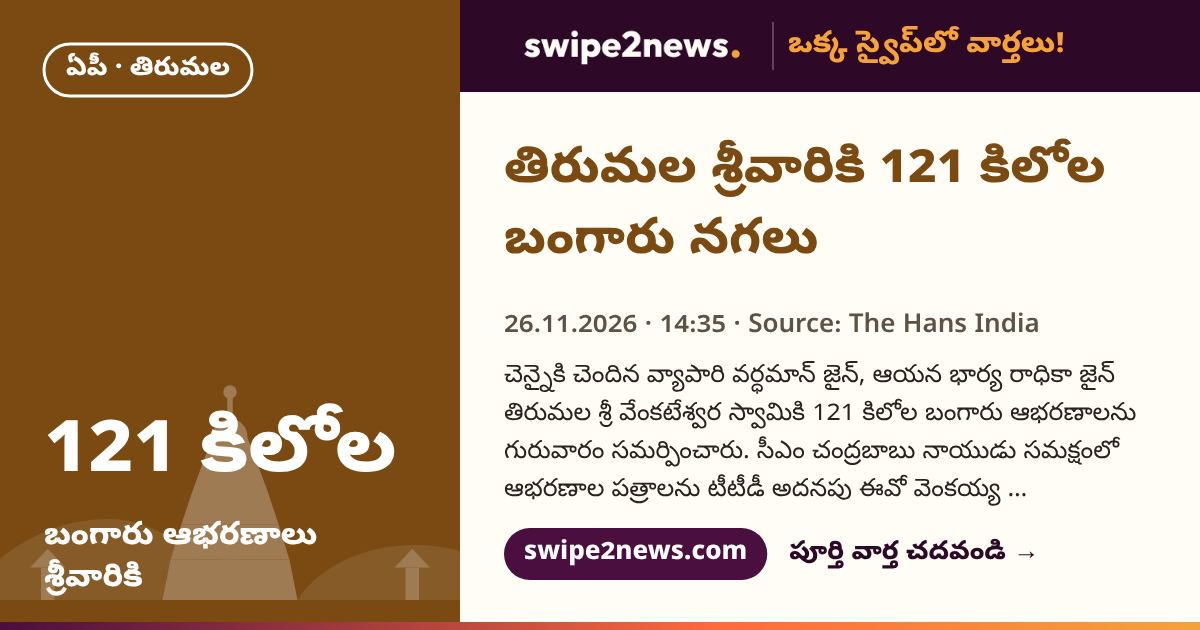
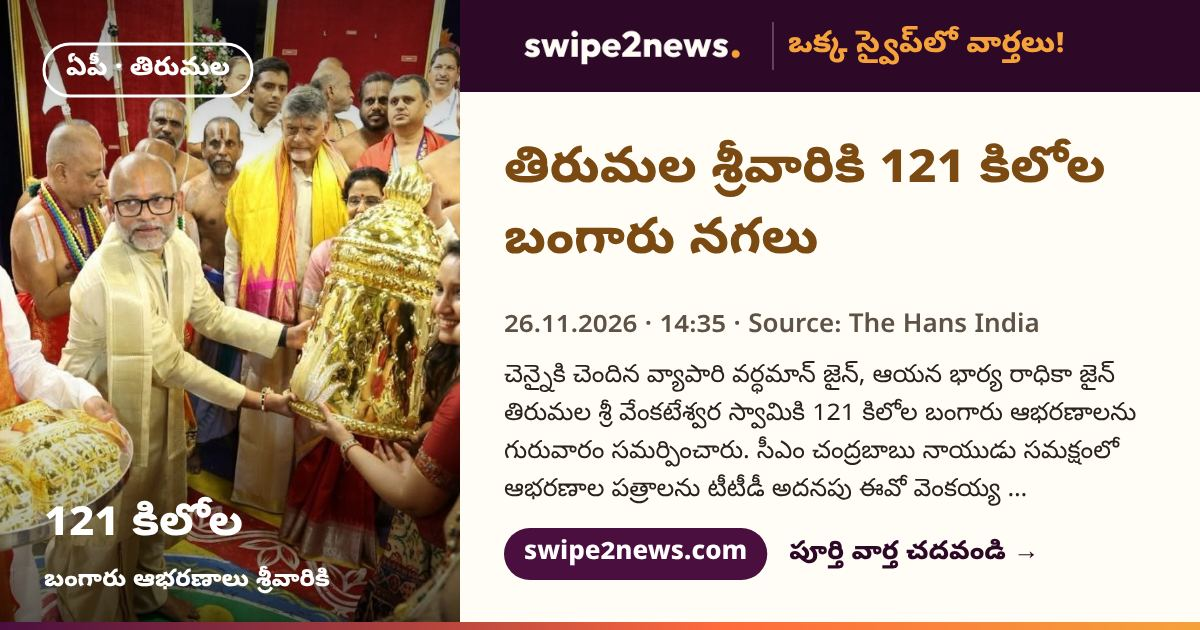
Photo gallery on cards (tap for next, dots, auto every 3 s); Tirumala 121 kg gold story with 5 photos
Claude-Session: https://claude.ai/code/session_018iQhkHU53oJfvWAwm1ZPZm

diff --git a/index.html b/index.html
@@ -1388,6 +1388,17 @@ body.np .feed .story{bottom:calc(72px + env(safe-area-inset-bottom,0px))}
 .s2n.dly .dswipe{display:flex;align-items:center;gap:6px;font:700 13px/1.3 var(--body);color:rgba(255,253,245,.85);text-align:right}.s2n.dly .dswipe b{color:#F5A23A;font-size:18px}
 .s2n.dly .dhand{display:inline-block;animation:dHand 1.8s ease-in-out infinite}@keyframes dHand{0%,30%{transform:none}60%{transform:translateX(-14px)}100%{transform:none}}
 .s2n .panel>.pcr{position:absolute;right:12px;top:12px;z-index:3;display:inline-flex;align-items:center;gap:4px;max-width:52%;white-space:nowrap;overflow:hidden;text-overflow:ellipsis;padding:4px 10px;border-radius:999px;background:rgba(20,4,17,.72);border:1px solid rgba(245,162,58,.9);color:#FFFDF5;font:600 11.5px/1.2 var(--body)}.s2n .panel>.pcr b{font-weight:800}
+
+/* photo gallery on a card: tap to see next, dots, auto-advance every 3 s (owner 26 Nov 2026, preview) */
+.s2n .panel .gal{position:absolute;inset:0;z-index:0;cursor:pointer;background:#4A0E3F}
+.s2n .panel .gal img{position:absolute;inset:0;width:100%;height:100%;object-fit:cover;object-position:50% 35%;opacity:0;transition:opacity .5s}
+.s2n .panel .gal img.on{opacity:1}
+.s2n .panel .gal .gdots{position:absolute;left:0;right:0;bottom:62px;display:flex;justify-content:center;gap:6px;z-index:2}
+.s2n .panel .gal .gdots i{width:7px;height:7px;border-radius:50%;background:rgba(255,253,245,.55);transition:all .3s}
+.s2n .panel .gal .gdots i.on{width:18px;border-radius:4px;background:#F5A23A}
+.s2n .panel.bnr .ptop,.s2n .panel.bnr .bkw{z-index:2;position:relative}
+.s2n .panel .gal::after{content:'';position:absolute;left:0;right:0;bottom:0;height:45%;background:linear-gradient(transparent,rgba(46,8,39,.92));pointer-events:none}
+.s2n .panel .gal .gcnt{position:absolute;right:12px;top:52px;z-index:2;padding:2px 9px;border-radius:12px;background:rgba(46,8,39,.75);color:#FFFDF5;font:700 12px/1.5 'Outfit',sans-serif}
 </style>
 </head>
 <body>
@@ -1402,7 +1413,7 @@ body.np .feed .story{bottom:calc(72px + env(safe-area-inset-bottom,0px))}
     <button class="icon" id="setBtn" type="button" aria-label="సెట్టింగ్స్"><svg viewBox="0 0 24 24" fill="none" stroke="currentColor" stroke-width="2" stroke-linecap="round" aria-hidden="true"><path d="M4 7h10M18 7h2M4 17h4M12 17h8"/><circle cx="16" cy="7" r="2"/><circle cx="10" cy="17" r="2"/></svg></button>
   </header>
   <nav class="tabs" id="tabs" aria-label="విభాగాలు"></nav>
-  <main class="feed" id="feed" aria-label="వార్తలు"><!--SSR--><div class="ssr" lang="en"><h1>Swipe2News – Telangana, Andhra Pradesh, India &amp; World news in short</h1><p>Know More. Scroll Less. Short, sourced news from every district of Telangana and Andhra Pradesh, plus the most important news from India and the world – in Telugu, English and Hindi. Every story names and links its original source.</p><p><a href="/en/">English news</a> · <a href="/te/">తెలుగు వార్తలు</a> · <a href="/hi/">हिन्दी खबरें</a> · <a href="/web/">Latest news website</a> · <a href="/install.html">Install the app</a> · <a href="/epaper/">E-paper</a> · <a href="/mandi/">Mandi prices</a> · <a href="/?jobs=1">Jobs</a></p><h2>Top stories</h2><ul><li><a href="/s/zux8cg?l=en">Happy Constitution Day</a> <small>Swipe2News · 26.11.2026 11:45</small></li><li><a href="/s/hea9wr?l=en">Tata Trusts to sue over chairman&#x27;s term</a> <small>Telangana Today (PTI) · 26.11.2026 11:35</small></li><li><a href="/s/fe03cc?l=en">Temple shifted for NH-716 widening</a> <small>Telangana Today (PTI) · 26.11.2026 11:35</small></li><li><a href="/s/1hbsi2c?l=en">₹1,500 crore coffee factory at Wargal</a> <small>The Pioneer · 26.11.2026 11:35</small></li><li><a href="/s/1fa4h1n?l=en">HC summons Telangana Chief Secretary</a> <small>Siasat Daily · 26.11.2026 11:35</small></li><li><a href="/s/6oidab?l=en">Sword dance at wedding: 4 arrested</a> <small>Siasat Daily · 26.11.2026 11:35</small></li><li><a href="/s/elixg9?l=en">Free registration for Indiramma tower homes</a> <small>HMTV · 26.11.2026 11:35</small></li><li><a href="/s/mw2byc?l=en">Narnoor: father accused of killing daughter</a> <small>Deccan Chronicle · 26.11.2026 11:05</small></li><li><a href="/s/lh66tl?l=en">No Telangana-AP deal on Sagar water</a> <small>Oneindia Telugu · 26.11.2026 11:05</small></li><li><a href="/s/1efhxun?l=en">Apple&#x27;s first Telangana store in Kukatpally</a> <small>Telangana Today (IANS) · 26.11.2026 10:35</small></li><li><a href="/s/c905pn?l=en">HC dismisses PIL on Vikarabad court site</a> <small>Live Law · 26.11.2026 11:05</small></li><li><a href="/s/zpjhek?l=en">Chief ministers pay tribute to 26/11 victims</a> <small>Telangana Today (IANS) · 26.11.2026 10:05</small></li><li><a href="/s/qvf117?l=en">Nagole businessman loses ₹12 lakh in trading scam</a> <small>The Siasat Daily · 26.11.2026 10:35</small></li><li><a href="/s/56i9c0?l=en">Hyderabad forum orders check of BYD car</a> <small>The Siasat Daily · 26.11.2026 10:05</small></li><li><a href="/s/1dri4ut?l=en">PILs seek halt to Kukatpally truck park sale</a> <small>The Siasat Daily · 26.11.2026 09:35</small></li><li><a href="/s/5tfcq8?l=en">Mrithika wins 100m gold at BIMSTEC meet</a> <small>Telangana Today · 26.11.2026 10:05</small></li><li><a href="/s/1h24ttz?l=en">Silpa Ravi under house arrest in Nandyal</a> <small>Deccan Chronicle · 26.11.2026 09:35</small></li><li><a href="/s/2x6f2q?l=en">Delhi Police: no nod for SKM farmers&#x27; march</a> <small>Telangana Today (IANS) · 26.11.2026 09:05</small></li><li><a href="/s/16uu4vu?l=en">Polling begins in Mangalagiri&#x27;s 62 divisions</a> <small>HMTV · 26.11.2026 09:05</small></li><li><a href="/s/hjazby?l=en">CM Chandrababu Naidu votes in Undavalli</a> <small>NTV Telugu · 26.11.2026 09:05</small></li><li><a href="/s/pmc4ju?l=en">AP first-phase panchayat polling begins</a> <small>V6 Velugu · 26.11.2026 09:05</small></li><li><a href="/s/is4qxn?l=en">HC: non-tribal land disputes go to civil courts</a> <small>V6 Velugu · 26.11.2026 09:05</small></li><li><a href="/s/fs5hr8?l=en">PM Modi greets nation on Constitution Day</a> <small>Telangana Today (IANS) · 26.11.2026 09:05</small></li><li><a href="/s/fbnzhq?l=en">Cyberabad corporation to get twin towers</a> <small>V6 Velugu · 26.11.2026 09:05</small></li></ul><p class="ssrf"><a href="/about.html">About</a> · <a href="/editorial-policy.html">Editorial policy</a> · <a href="/editorial-policy.html#corrections">Corrections</a> · <a href="/contact.html">Contact</a> · <a href="/privacy.html">Privacy</a> · <a href="/terms.html">Terms</a></p><p class="ssrw">Loading news… · వార్తలు లోడ్ అవుతున్నాయి…</p></div><!--/SSR--></main>
+  <main class="feed" id="feed" aria-label="వార్తలు"><!--SSR--><div class="ssr" lang="en"><h1>Swipe2News – Telangana, Andhra Pradesh, India &amp; World news in short</h1><p>Know More. Scroll Less. Short, sourced news from every district of Telangana and Andhra Pradesh, plus the most important news from India and the world – in Telugu, English and Hindi. Every story names and links its original source.</p><p><a href="/en/">English news</a> · <a href="/te/">తెలుగు వార్తలు</a> · <a href="/hi/">हिन्दी खबरें</a> · <a href="/web/">Latest news website</a> · <a href="/install.html">Install the app</a> · <a href="/epaper/">E-paper</a> · <a href="/mandi/">Mandi prices</a> · <a href="/?jobs=1">Jobs</a></p><h2>Top stories</h2><ul><li><a href="/s/1u5bcvk?l=en">SC notice to Centre on protest guidelines</a> <small>Telangana Today (PTI) · 26.11.2026 15:35</small></li><li><a href="/s/14d98t?l=en">Telangana guest house in Ajmer yet to start</a> <small>Telangana Today · 26.11.2026 15:35</small></li><li><a href="/s/yjzzxc?l=en">Two held in online harassment cases</a> <small>Telangana Today · 26.11.2026 15:35</small></li><li><a href="/s/1bl5w9a?l=en">Panchayats told to open own-revenue accounts</a> <small>Telangana Today · 26.11.2026 15:35</small></li><li><a href="/s/15pbmyx?l=en">False: fine for driving alone in a car</a> <small>NewsMeter · 26.11.2026 15:35</small></li><li><a href="/s/q86p0e?l=en">Four killed as lorry hits van in Anantapur</a> <small>Telangana Today · 26.11.2026 15:35</small></li><li><a href="/s/16ik3ed?l=en">Telangana exists due to Article 3: KTR</a> <small>Telangana Today · 26.11.2026 15:05</small></li><li><a href="/s/nj1x8g?l=en">Tension outside Keserapalli polling booth</a> <small>Deccan Chronicle (ANI) · 26.11.2026 15:05</small></li><li><a href="/s/1v78skq?l=en">AP pensions on November 30, December 1</a> <small>Oneindia Telugu · 26.11.2026 15:05</small></li><li><a href="/s/hp9bxj?l=en">NIPER Hyderabad convocation on Friday</a> <small>Telangana Today · 26.11.2026 15:05</small></li><li><a href="/s/152ytkk?l=en">Stones hit MLA&#x27;s vehicle in Ahobilam</a> <small>Deccan Chronicle · 26.11.2026 14:35</small></li><li><a href="/s/ijeetx?l=en">32,100 voter roll cases pending in Telangana</a> <small>The Siasat Daily · 26.11.2026 15:05</small></li><li><a href="/s/ximmx3?l=en">Wanaparthy hall warns uninvited guests</a> <small>NTV Telugu · 26.11.2026 15:05</small></li><li><a href="/s/32cm03?l=en">BRS leader attacked in Nagarkurnool</a> <small>The Siasat Daily · 26.11.2026 15:05</small></li><li><a href="/s/66y57w?l=en">BRS objects: no Ambedkar photo in govt ads</a> <small>Telangana Today · 26.11.2026 14:05</small></li><li><a href="/s/1y9et4d?l=en">SC: show total sugar, fat on food packs</a> <small>Deccan Chronicle · 26.11.2026 14:05</small></li><li><a href="/s/rcdf72?l=en">Adepalli school: headmaster absent, say villagers</a> <small>HMTV · 26.11.2026 14:05</small></li><li><a href="/s/1ibhi0w?l=en">Gopichand joins Nasha Mukt Bharat walk</a> <small>Deccan Chronicle · 26.11.2026 14:05</small></li><li><a href="/s/vxg3f4?l=en">Sharad Pawar admitted to Mumbai hospital</a> <small>ThePrint (PTI) · 26.11.2026 15:05</small></li><li><a href="/s/25oo1h?l=en">Harish Rao faults Siddipet science fair venue</a> <small>Andhra Jyothy · 26.11.2026 14:05</small></li><li><a href="/s/4wl40u?l=en">Both states release water at Sagar: report</a> <small>Namasthe Telangana · 26.11.2026 14:05</small></li><li><a href="/s/4lhup1?l=en">HC jails Cyberabad CP for 2 weeks</a> <small>Deccan Chronicle · 26.11.2026 13:35</small></li><li><a href="/s/8h7p0s?l=en">₹74 crore works launched in Kanagal</a> <small>TV9 Telugu · 26.11.2026 14:05</small></li><li><a href="/s/1yd7vmc?l=en">Srisailam: free darshan for 420 Chenchus</a> <small>Vaartha · 26.11.2026 14:05</small></li></ul><p class="ssrf"><a href="/about.html">About</a> · <a href="/editorial-policy.html">Editorial policy</a> · <a href="/editorial-policy.html#corrections">Corrections</a> · <a href="/contact.html">Contact</a> · <a href="/privacy.html">Privacy</a> · <a href="/terms.html">Terms</a></p><p class="ssrw">Loading news… · వార్తలు లోడ్ అవుతున్నాయి…</p></div><!--/SSR--></main>
   <div class="installbar" id="installBar" hidden role="dialog" aria-label="యాప్ ఇన్స్టాల్">
     <img src="art/logo.svg" alt="">
     <div class="t"><b>Swipe2News యాప్ను హోమ్ స్క్రీన్కు జోడించండి</b><span>ఉచితం · ఒక్క టచ్తో వార్తలు · 🔔 అలర్ట్లు</span></div>
@@ -2341,7 +2352,7 @@ function cardHTML(s,i){
   const read = /^https?:\/\//.test(s.url||'') ? `<a class="read" href="${esc(s.url)}" target="_blank" rel="noopener">${U('full')}</a>` : '';
   return `<article class="story s2n${ph?' hasph':''}${(()=>{const a=!storyPhoto(s)&&artPlan(s);return a&&a.m==='plain'&&!a.obj?' numled':''})()}" aria-label="${U('news')} ${i+1}" style="--hl:#4A0E3F;--hl-ink:#4A0E3F">
   <div class="panel bnr">
-    ${sceneSVG(s,'scene')}${/^videos\/[\w.-]+\.mp4$/.test(s.vid||'')?`<button class="vplay" type="button" data-vid="${esc(s.vid)}" aria-label="వీడియో చూడండి"><svg viewBox="0 0 24 24" width="30" height="30" aria-hidden="true"><path d="M8 5v14l11-7z" fill="#fff"/></svg><span>వీడియో చూడండి</span></button>`:''}
+    ${sceneSVG(s,'scene')}${Array.isArray(s.imgs)&&s.imgs.length>1?`<div class="gal" data-n="${s.imgs.length}">${s.imgs.filter(u=>/^photos\/[\w.-]+\.(jpe?g|png|webp)$/.test(u)).map((u,k)=>`<img src="/${esc(u)}" alt="" class="${k?'':'on'}" draggable="false">`).join('')}<div class="gdots">${s.imgs.map((u,k)=>`<i class="${k?'':'on'}"></i>`).join('')}</div><span class="gcnt">1/${s.imgs.length}</span></div>`:''}${/^videos\/[\w.-]+\.mp4$/.test(s.vid||'')?`<button class="vplay" type="button" data-vid="${esc(s.vid)}" aria-label="వీడియో చూడండి"><svg viewBox="0 0 24 24" width="30" height="30" aria-hidden="true"><path d="M8 5v14l11-7z" fill="#fff"/></svg><span>వీడియో చూడండి</span></button>`:''}
     <div class="ptop"><span class="bchip">${s.brk?'🔴 BREAKING · ':''}${esc(s.cat||U('news'))}</span></div>
     ${storyPhoto(s)&&s.imgcr?`<div class="pcr">📷 ${esc(({te:'ఫోటో',en:'Photo',hi:'फ़ोटो'})[LG()]||'ఫోటో')}: <b>${esc(s.imgcr)}</b></div>`:''}
     <div class="bkw${statRev(s)?' rev':''}">${statRev(s)?`<div class="statl">${esc(s.statl)}</div><div class="stat">${esc(statTx(s))}</div>`:`<div class="stat">${esc(statTx(s))}</div><div class="statl">${esc(s.statl)}</div>`}${!storyPhoto(s)&&artPlan(s)&&artPlan(s).m!=='logo'&&!/^e\/(logo|photo)-/.test(artPlan(s).bg||'')&&!(artPlan(s).m==='plain'&&!artPlan(s).obj)?`<div class="adisc">${esc(ART_DISC[LG()]||ART_DISC.te)}</div>`:''}</div>
@@ -4273,5 +4284,10 @@ setTimeout(alertInvite, 60000);
   try{ if(new URLSearchParams(location.search).get('onb')==='1') setTimeout(openOnb,400); }catch(e){}
 })();
 </script>
-</body>
+<script>
+(function(){ function step(g,dir){ const ims=g.querySelectorAll('img'), ds=g.querySelectorAll('.gdots i'), n=ims.length; let k=[...ims].findIndex(x=>x.classList.contains('on')); ims[k].classList.remove('on'); ds[k]&&ds[k].classList.remove('on'); k=(k+(dir||1)+n)%n; ims[k].classList.add('on'); ds[k]&&ds[k].classList.add('on'); const c=g.querySelector('.gcnt'); if(c) c.textContent=(k+1)+'/'+n; }
+  document.addEventListener('click',e=>{ const g=e.target.closest('.gal'); if(!g) return; e.stopPropagation(); e.preventDefault(); const r=g.getBoundingClientRect(); step(g,(e.clientX-r.left)<r.width/3?-1:1); g._t=Date.now(); },true);
+  setInterval(()=>{ document.querySelectorAll('.gal').forEach(g=>{ const r=g.getBoundingClientRect(); if(r.bottom<0||r.top>innerHeight||r.right<0||r.left>innerWidth) return; if(Date.now()-(g._t||0)<6000) return; step(g,1); }); },3000);
+})();
+</script></body>
 </html>

diff --git a/s/a7oyde.html b/s/a7oyde.html
@@ -496,7 +496,7 @@ table.jd th{width:34%;color:var(--muted);font-weight:800;background:var(--soft)}
   <div class="rbox rqr"><h4>📲 Swipe2News ఛానెల్</h4><img src="/qr.png" alt="Swipe2News WhatsApp ఛానెల్ QR"><p>స్కాన్ చేసి ప్రతి 30 నిమిషాలకు వార్తలు పొందండి</p></div>
 </aside>
 </div>
-<section class="sec"><div class="sh"><h2>ఇవి కూడా చదవండి</h2></div><div class="grid"><a class="card" href="/s/14d98t" style="--hl:var(--c-gov);--hlink:var(--c-gov)"><div class="pnl"><i class="apl2"></i><span class="alw"><span class="alr"><img class="alogo" src="/art/logo.svg" alt=""><i class="adot"></i></span></span><i class="phs"></i><span class="chip">హైదరాబాద్ · యాత్రికులు</span><div class="stat">₹5 కోట్లు</div></div><div class="bd"><h3>అజ్మేర్లో తెలంగాణ అతిథి గృహం ఇంకా లేదు</h3><div class="m">Telangana Today · 26.11.2026</div></div></a><a class="card" href="/s/5c5648" style="--hl:var(--c-gov);--hlink:var(--c-gov)"><div class="pnl"><i class="apl2"></i><span class="alw"><span class="alr"><img class="alogo" src="/art/logo.svg" alt=""><i class="adot"></i></span></span><i class="phs"></i><span class="chip">తెలంగాణ · పర్యాటకం</span><div class="stat">₹1,376 కోట్ల</div></div><div class="bd"><h3>ఎకో టూరిజం పనులకు భూములు ఇవ్వాలని సూచన</h3><div class="m">Oneindia Telugu · 26.11.2026</div></div></a><a class="card" href="/s/1syffcf" style="--hl:var(--c-city);--hlink:var(--c-city)"><div class="pnl"><img class="ph art2 aland" src="/art/d/ap-tirupati.webp" alt="" decoding="async"><i class="phs"></i><span class="chip">ఏపీ · తిరుమల</span><div class="stat">121 కిలోల</div></div><div class="bd"><h3>తిరుమల శ్రీవారికి 121 కిలోల బంగారు నగలు</h3><div class="m">The Hans India · 26.11.2026</div></div></a><a class="card" href="/s/1yd7vmc" style="--hl:var(--c-city);--hlink:var(--c-city)"><div class="pnl"><img class="ph art2 aland" src="/art/e/photo-srisailam-temple.webp" alt="" decoding="async"><i class="phs"></i><span class="chip">ఏపీ · శ్రీశైలం</span><div class="stat">420 మంది</div></div><div class="bd"><h3>శ్రీశైలంలో 420 మంది చెంచులకు ఉచిత దర్శనం</h3><div class="m">Vaartha · 26.11.2026</div></div></a></div></section>
+<section class="sec"><div class="sh"><h2>ఇవి కూడా చదవండి</h2></div><div class="grid"><a class="card" href="/s/14d98t" style="--hl:var(--c-gov);--hlink:var(--c-gov)"><div class="pnl"><i class="apl2"></i><span class="alw"><span class="alr"><img class="alogo" src="/art/logo.svg" alt=""><i class="adot"></i></span></span><i class="phs"></i><span class="chip">హైదరాబాద్ · యాత్రికులు</span><div class="stat">₹5 కోట్లు</div></div><div class="bd"><h3>అజ్మేర్లో తెలంగాణ అతిథి గృహం ఇంకా లేదు</h3><div class="m">Telangana Today · 26.11.2026</div></div></a><a class="card" href="/s/5c5648" style="--hl:var(--c-gov);--hlink:var(--c-gov)"><div class="pnl"><i class="apl2"></i><span class="alw"><span class="alr"><img class="alogo" src="/art/logo.svg" alt=""><i class="adot"></i></span></span><i class="phs"></i><span class="chip">తెలంగాణ · పర్యాటకం</span><div class="stat">₹1,376 కోట్ల</div></div><div class="bd"><h3>ఎకో టూరిజం పనులకు భూములు ఇవ్వాలని సూచన</h3><div class="m">Oneindia Telugu · 26.11.2026</div></div></a><a class="card" href="/s/1syffcf" style="--hl:var(--c-city);--hlink:var(--c-city)"><div class="pnl"><img class="ph" style="object-position:50% 35%" src="/photos/off-1syffcf-1.jpg" alt="" loading="lazy" decoding="async"><i class="phs"></i><span class="chip">ఏపీ · తిరుమల</span><div class="stat">121 కిలోల</div></div><div class="bd"><h3>తిరుమల శ్రీవారికి 121 కిలోల బంగారు నగలు</h3><div class="m">The Hans India · 26.11.2026</div></div></a><a class="card" href="/s/1yd7vmc" style="--hl:var(--c-city);--hlink:var(--c-city)"><div class="pnl"><img class="ph art2 aland" src="/art/e/photo-srisailam-temple.webp" alt="" decoding="async"><i class="phs"></i><span class="chip">ఏపీ · శ్రీశైలం</span><div class="stat">420 మంది</div></div><div class="bd"><h3>శ్రీశైలంలో 420 మంది చెంచులకు ఉచిత దర్శనం</h3><div class="m">Vaartha · 26.11.2026</div></div></a></div></section>
 <section class="sec"><div class="sh"><h2>మరిన్ని తాజా వార్తలు</h2><a href="/">హోమ్ →</a></div><div class="grid" id="more"></div></section>
 </main>
 <footer>

diff --git a/sw.js b/sw.js
@@ -1,6 +1,6 @@
 // Swipe2News service worker: keeps the app working offline (villages, weak signal).
 // Pages and news: network first, but fall back to the saved copy after 4 s. Fonts and pictures: saved copy first.
-const CACHE = 's2n-v2221'; // when this changes, run tools/bump_app.py (or put the same name in OneSignalSDKWorker.js): Safari only updates the worker when OneSignalSDKWorker.js itself changes
+const CACHE = 's2n-v2222'; // when this changes, run tools/bump_app.py (or put the same name in OneSignalSDKWorker.js): Safari only updates the worker when OneSignalSDKWorker.js itself changes
 const SHELL = ['./', 'index.html', 'manifest.webmanifest', 'logo.png', 'logo-light.png', 'qr.png', 'icon-192.png', 'icon-512.png',
   'news.json', 'mandi.json', 'mandi.js?v=2', 'mandi/', 'morning/', 'archive/index.json'];
 self.addEventListener('install', e => { e.waitUntil(caches.open(CACHE).then(c => Promise.all(SHELL.map(u => c.add(new Request(u, {cache: 'reload'})).catch(() => 0))))); self.skipWaiting(); });

diff --git a/s/1syffcf.html b/s/1syffcf.html
@@ -470,7 +470,7 @@ table.jd th{width:34%;color:var(--muted);font-weight:800;background:var(--soft)}
 <main class="wrap">
 <div class="agrid">
 <article class="ar" style="--hl:var(--c-city);--hlink:var(--c-city)">
-  <div class="pnl"><img class="ph art2 aland" src="/art/d/ap-tirupati.webp" alt="" decoding="async"><i class="phs"></i>
+  <div class="pnl"><img class="ph" style="object-position:50% 35%" src="/photos/off-1syffcf-1.jpg" alt="" loading="lazy" decoding="async"><i class="phs"></i>
     <div class="chips"><span class="chip">ఏపీ · తిరుమల</span></div>
     <div><div class="stat te">121 కిలోల</div><div class="statl">బంగారు ఆభరణాలు శ్రీవారికి</div></div></div>
   <div class="in">

diff --git a/OneSignalSDKWorker.js b/OneSignalSDKWorker.js
@@ -1,3 +1,3 @@
 // Swipe2News service worker for push alerts: OneSignal + the same offline support as sw.js.
 try { importScripts("https://cdn.onesignal.com/sdks/web/v16/OneSignalSDK.sw.js"); } catch (e) {}
-importScripts("sw.js?v=s2n-v2221"); // version name changes with every app update so Safari installs the new worker
+importScripts("sw.js?v=s2n-v2222"); // version name changes with every app update so Safari installs the new worker
